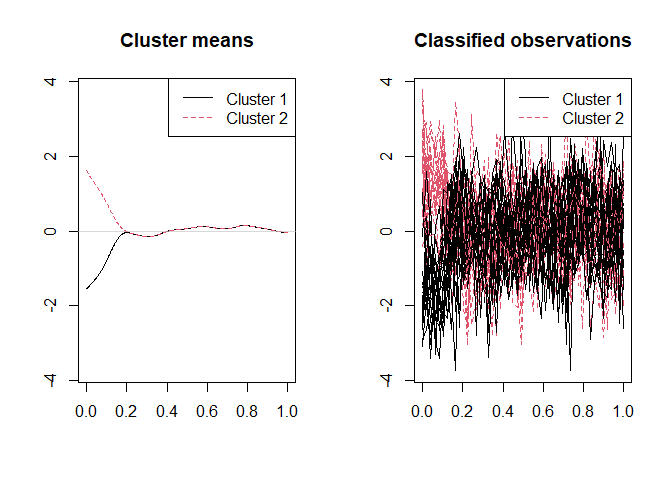
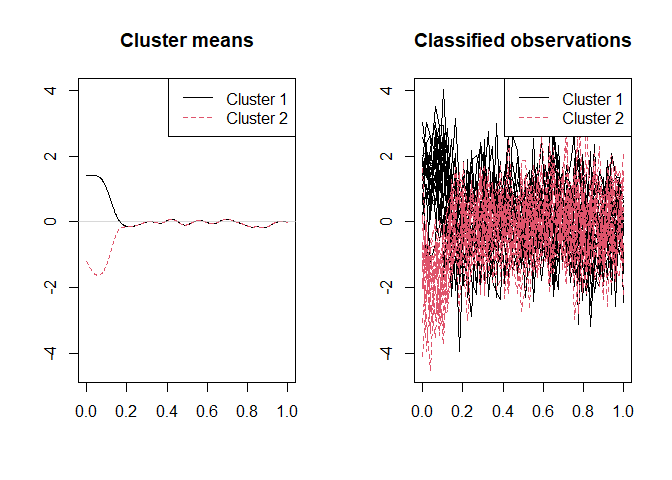
readme

diff --git a/README.md b/README.md
@@ -78,9 +78,10 @@ The result are plotted.
 plot(mod_cv)
 ```
 
-<img src="man/figures/README-unnamed-chunk-6-1.png" width="100%" /> By
-using the model selection method described in Centofanti et al. (2021),
-the optimal values of , , and , are , , and , respectively.
+<embed src="man/figures/README-unnamed-chunk-6-1.pdf" width="100%" type="application/pdf" />
+
+By using the model selection method described in Centofanti et
+al. (2021), the optimal values of , , and , are , , and , respectively.
 
 Finally, is applied with , , and fixed to their optimal values.
 
@@ -94,8 +95,8 @@ functions and the classified curves are obtained as follows.
 
 ``` r
 print(mod$clus$classes)
-#>  [1] 2 2 2 2 2 2 2 2 2 2 2 2 2 2 2 2 2 2 2 2 1 1 1 1 1 1 1 1 1 1 1 1 1 1 1 1 1 1
-#> [39] 1 2
+#>  [1] 1 1 1 1 1 1 1 1 1 1 1 1 1 1 1 1 1 1 1 1 2 2 2 2 2 2 2 2 2 2 2 2 2 2 2 2 2 2
+#> [39] 2 2
 plot(mod)
 ```
 
